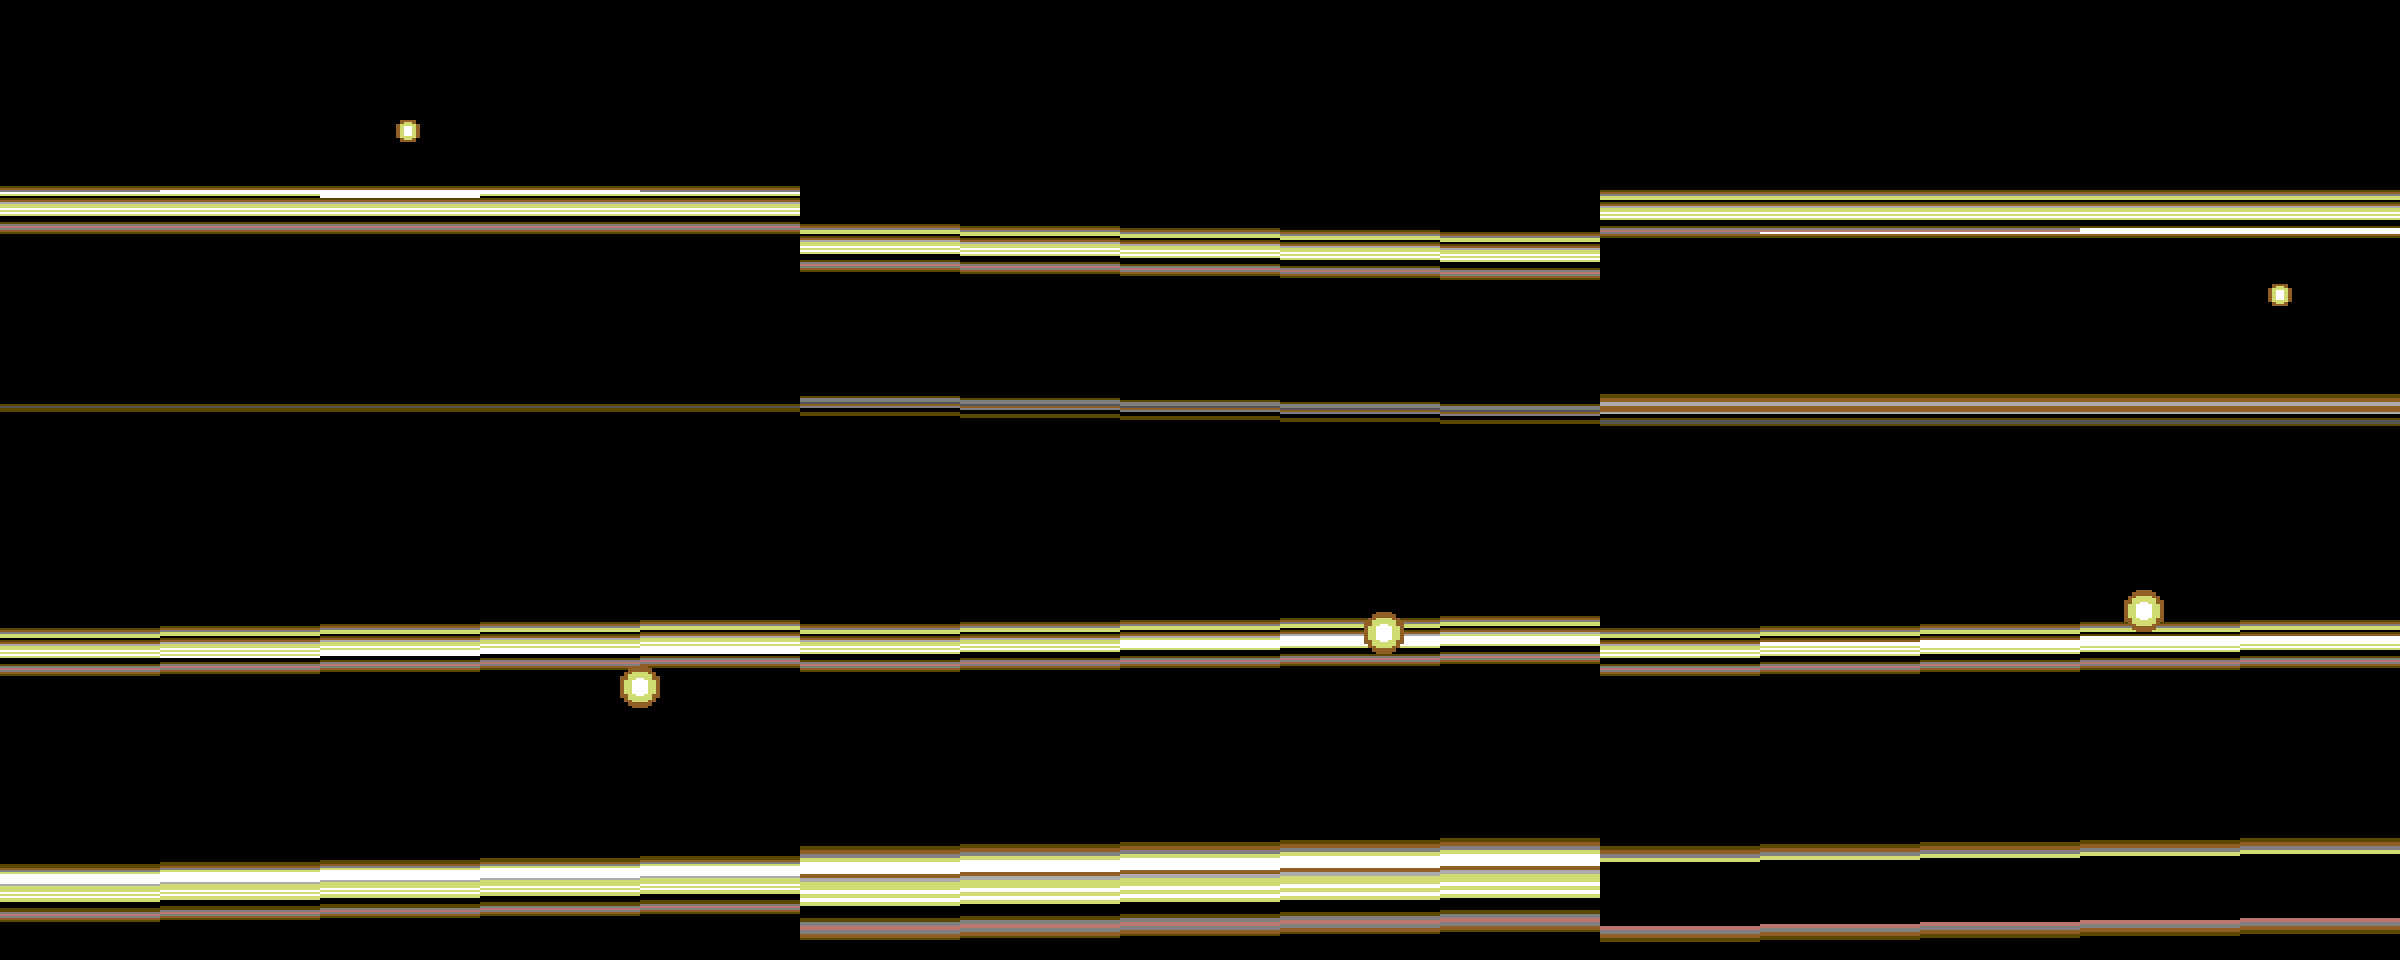
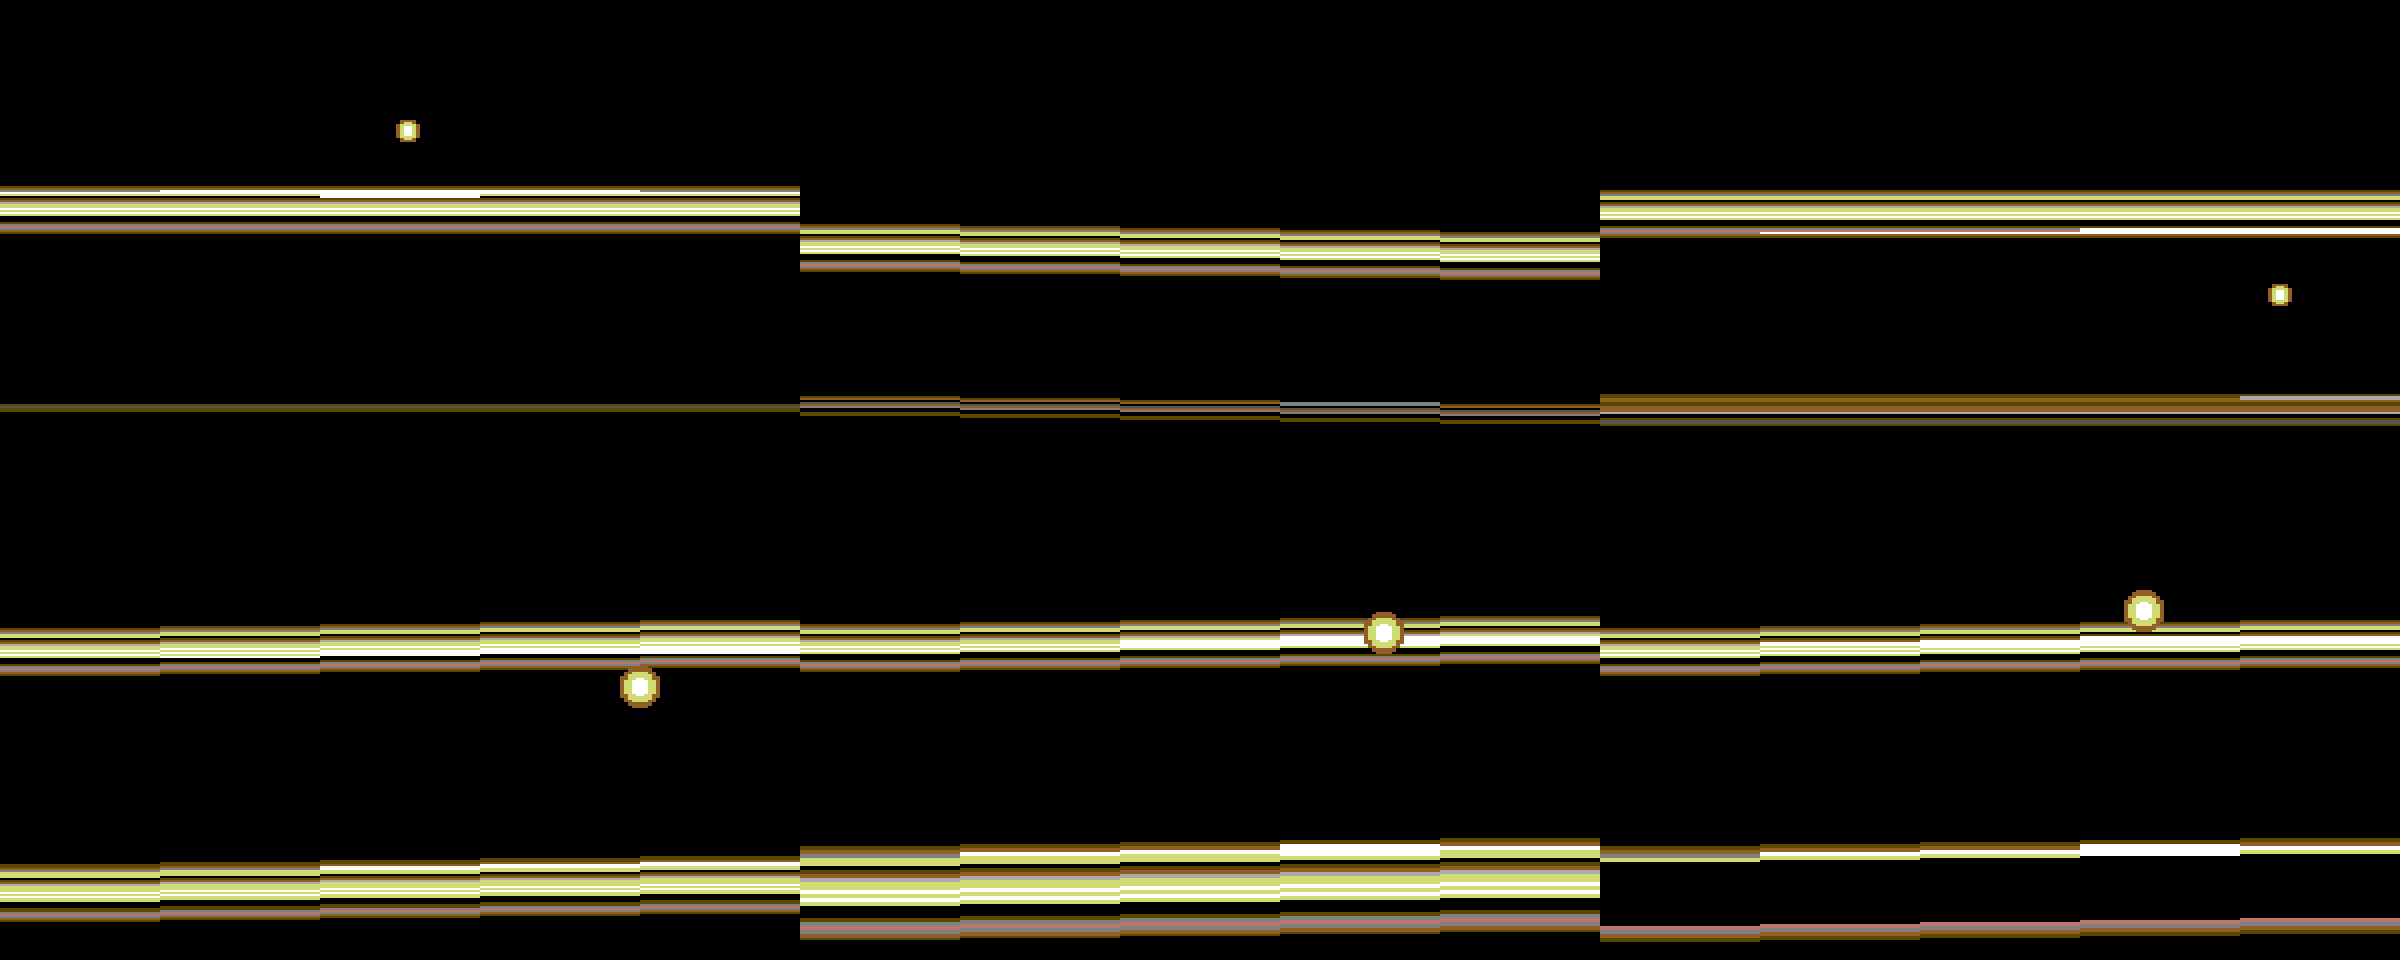
GOLDTWIN: bar B's highlight rides to the top and thickens near the light
Bar B gets a real scene depth, from 90 behind the light's orbit plane to
75 in front of it, so once it is nearer the camera than the light the
highlight moves to the top rows (simulated highlight centre 0.44 -> 0.21
of the bar). The highlight is now laid on per segment with each
segment's distance-from-light threshold, written straight into bar B's
speedcode, so it is thickest in the segment nearest the light.

To make room, the main loop starts the next sprite and bar A right after
bar A is drawn instead of after bar B; the simulator now checks the
deadlines on a line-by-line timeline (worst 18% / 56% / 74%).

Claude-Session: https://claude.ai/code/session_01XRP7YWTXV6rxeodyPouCbG

Changed region(s): [[0.0, 0.875, 0.6875, 0.9375], [0.3438, 0.4062, 1.0, 0.4375], [0.75, 0.875, 1.0, 0.9062]]

diff --git a/c64-raybars/sim_goldtwin.py b/c64-raybars/sim_goldtwin.py
@@ -16,11 +16,11 @@ from PIL import Image
 HERE = os.path.dirname(os.path.abspath(__file__))
 FRAMES = 512
 ROWS, ROWSB, SEGS, SEGSIZE, ROWSIZE = 29, 52, 5, 8, 47
+BMAXROWS = 48
 SEGW, DENLINE, STEAL, BTOP = 80, 44, 4, 229
 TOP, BOTTOM = 50, 290
 OP_BCS, OP_BCC = 0xB0, 0x90
 LINE = 63
-BEND = BTOP + ROWSB + 1         # main loop starts after bar B
 IRQTOP_LINES = 6                # top IRQ: line 44 until DEN is back at 49
 SPRITE_DMA = 21 * 5             # worst case cycles the sprite takes per frame
 
@@ -61,7 +61,11 @@ for r in range(ROWS):
 ok &= all(c == LINE for c in time_rows(blockb, ROWSB))
 print(f"rows: bar A 63 (59 on sprite lines), bar B 63: {'OK' if ok else 'WRONG'}")
 
-# --- 2. the main loop's frame work ------------------------------------------------
+# --- 2. the main loop's frame work, on a timeline ----------------------------------
+# The main loop starts the next sprite + bar A when bar A has been drawn, and
+# the next bar B when bar B has been drawn.  Interrupts take the lines they
+# draw on; the work runs in the remaining time.  Deadlines: the sprite before
+# the top IRQ, bar A before its IRQ, bar B before its IRQ.
 TRAMP = 0xC000
 def call(addr, stop=None):
     mem[TRAMP:TRAMP + 4] = [0x20, addr & 255, addr >> 8, 0x00]
@@ -73,37 +77,83 @@ def call(addr, stop=None):
         mpu.step()
     return mpu.processorCycles - c, mark
 
+def advance(line, cycles, blocked):
+    """Run `cycles` of main-loop work from `line`, skipping blocked lines."""
+    lines = (cycles + 150) / LINE + SPRITE_DMA / LINE
+    while lines > 0:
+        for lo, hi in blocked:
+            if lo <= line < hi:
+                line = hi
+                break
+        step = min(lines, 1)
+        line += step
+        lines -= step
+    return line
+
 call(labels["update"]); call(labels["updateb"])
 frames, worst = [], {"sprite": 0, "A": 0, "B": 0}
 clear = True
+BSTART, BEND = BTOP - 2, BTOP + ROWSB + 1
 for f in range(FRAMES):
+    y_cur = mem[Z["y0"]]
     ca, cball = call(labels["update"], labels["ballready"])
     cb, _ = call(labels["updateb"])
     y = mem[Z["y0"]]
-    # deadlines, counted from the end of bar B (BEND), minus the IRQs in between
-    sprite_budget = ((312 - BEND) + DENLINE) * LINE - 150
-    a_budget = ((312 - BEND) + (y - 2) - IRQTOP_LINES) * LINE - 150 - SPRITE_DMA
-    b_budget = ((312 - BEND) + (BTOP - 2) - IRQTOP_LINES - (ROWS + 3)) * LINE \
-               - 150 - SPRITE_DMA
-    for k, used, bud in (("sprite", cball, sprite_budget), ("A", ca, a_budget),
-                         ("B", ca + cb, b_budget)):
-        worst[k] = max(worst[k], 100 * used / bud)
-        ok &= used <= bud
+    a_end = y_cur + ROWS + 2
+    blocked = [(BSTART, BEND), (312 + DENLINE, 312 + DENLINE + IRQTOP_LINES),
+               (312 + y - 2, 312 + y + ROWS + 2)]
+    t_ball = advance(a_end, cball, blocked)
+    t_a = advance(a_end, ca, blocked)
+    t_b = advance(max(t_a, BEND), cb, blocked)
+    for k, t, start, dl in (("sprite", t_ball, a_end, 312 + DENLINE),
+                            ("A", t_a, a_end, 312 + y - 2),
+                            ("B", t_b, BEND, 312 + BTOP - 2)):
+        worst[k] = max(worst[k], 100 * (t - start) / (dl - start))
+        ok &= t <= dl
     ly = mem[Z["ly"]]
-    clear &= ly + 22 < BTOP - 2     # no sprite DMA on bar B's IRQ lines or rows
+    clear &= ly + 22 < BTOP - 2
     ga = [[mem[block + r * ROWSIZE + k * SEGSIZE + 1] for k in range(SEGS)]
           for r in range(ROWS)]
     gb = [[mem[blockb + r * ROWSIZE + k * SEGSIZE + 1] for k in range(SEGS)]
           for r in range(ROWSB)]
     spr = list(mem[0x8000 + mem[Z["lptr"]] * 64: 0x8000 + mem[Z["lptr"]] * 64 + 63])
-    frames.append((y, ga, gb, ly, mem[Z["lx4"]] * 4, spr, mem[Z["bh"]], ca, cb))
+    dzv = mem[labels["dz"]]
+    kbv = [mem[labels["kb"] + k] for k in range(SEGS)]
+    bcol = labels["bcol"]
+    hl = [(r, k) for r in range(ROWSB) for k in range(SEGS)
+          if gb[r][k] != mem[bcol + r + kbv[k]]]
+    frames.append((y, ga, gb, ly, mem[Z["lx4"]] * 4, spr, mem[Z["bh"]], ca, cb,
+                   dzv - 256 * (dzv > 127), hl))
 ok &= clear
 print(f"main loop: update {min(f[7] for f in frames)}-{max(f[7] for f in frames)}, "
       f"updateb {min(f[8] for f in frames)}-{max(f[8] for f in frames)} cycles")
-print("worst use of each deadline: " +
+print("worst use of each deadline window: " +
       ", ".join(f"{k} {v:.0f}%" for k, v in worst.items()))
 print("sprite never on bar B's lines:", clear)
-print("bar B heights seen:", sorted({f[6] for f in frames}))
+
+# --- 2b. the two highlight fixes, measured -----------------------------------------
+# where bar B's highlight sits (0 = top row, 1 = bottom): rows where the
+# speedcode differs from bar B's plain dimmed column are the highlight.
+front, behind = [], []
+for fr in frames:
+    gb, bh, dzb, hl = fr[2], fr[6], fr[9], fr[10]
+    if bh >= 8 and hl:
+        top = (BMAXROWS - bh) // 2
+        c = sum((r - top) / bh for r, k in hl) / len(hl)
+        (front if dzb > 0 else behind).append(c)
+print(f"bar B highlight centre (0 = top, 1 = bottom): light in front of it "
+      f"{sum(front)/max(1,len(front)):.2f} ({len(front)} frames), "
+      f"bar nearer than the light {sum(behind)/max(1,len(behind)):.2f} ({len(behind)} frames)")
+thick = []
+for fr in frames:
+    gb, bh, lx = fr[2], fr[6], fr[4]
+    if bh >= 30:
+        counts = [sum(1 for r in range(ROWSB) if gb[r][k] == 1) for k in range(SEGS)]
+        if max(counts) >= 2:
+            near = min(range(SEGS), key=lambda k: abs(lx + 12 - (32 + 80 * k)))
+            thick.append((lx, counts, near))
+for lx, counts, near in thick[:: max(1, len(thick) // 5)]:
+    print(f"  light x {lx:3d}: bar B white rows per segment {counts} (nearest segment {near})")
 
 # --- 3. render -------------------------------------------------------------------
 W, H, SCALE = SEGS * SEGW, BOTTOM - TOP, 2

diff --git a/c64-raybars/gen_tables.py b/c64-raybars/gen_tables.py
@@ -284,12 +284,14 @@ for t in range(256):
     bh.append(h)
     bclip.append(c)
     blev.append(0 if h >= 22 else 1 if h >= 16 else 2 if h >= 11 else 3)
-    bzoff.append(int(round(15 * z)))
+    # bar B's scene depth: from 90 behind the light's orbit plane (z=6) to
+    # 75 in front of it (z=1).  Stored negated: dz = light z - bar B z.
+    bzoff.append(-int(round(75 - 33 * (z - 1))))
 # nearest-neighbour step: source rows per screen row, 8.8 fixed point
 step = [0] + [int(24 * 256 / h) for h in range(1, 49)]
 out = ["; Generated by gen_tables.py -- do not edit by hand.", ""]
 for name, data in (("bhtab", bh), ("bcliptab", bclip), ("blevtab", blev),
-                   ("bzofftab", bzoff),
+                   ("bzofftab", [b & 255 for b in bzoff]),
                    ("nnsteplo", [s & 255 for s in step]),
                    ("nnstephi", [s >> 8 for s in step])):
     out.append(f"{name}:")

diff --git a/c64-raybars/README.md b/c64-raybars/README.md
@@ -226,12 +226,22 @@ python3 sim_goldtwin.py      # needs -g -Ln goldtwin.lbl; renders preview_goldtw
 * **Near-clip.** At the camera, rows are cut from the middle outward (the
   nearest part first) over 20 frames, then there's a short black pause.
 * **Shared motion and light.** It tilts with the top bar and reflects the
-  same orbiting light, seen from its own depth.
+  same orbiting light. Its scene depth runs from 90 behind the light's orbit
+  plane to 75 in front of it. Once bar B is nearer the camera than the
+  light, the light shines from behind and above, and the highlight rides up
+  to the very top rows. In the simulator, the highlight's average centre
+  moves from 0.44 of the bar height to 0.21.
+* **Thickest nearest the light.** The plain dimmed gold is expanded once.
+  Then the highlight is laid on per segment, each with its own
+  distance-from-the-light threshold. The expansion records which source
+  line feeds each row, and only lit rows are visited. The white is written
+  straight into bar B's speedcode through a table of row addresses.
 * **Main loop instead of IRQs.** The interrupts only draw: the badline
-  trick at line 44, bar A, and bar B from line 229. The main loop builds
-  the next frame in deadline order: the sprite (before line 44), bar A
-  (before its IRQ), then bar B (before line 227). Worst cases are 36%, 71%
-  and 86% of each deadline.
+  trick at line 44, bar A, and bar B from line 229. The main loop starts
+  the next sprite and bar A as soon as bar A has been drawn (bar B's IRQ
+  cuts in), and the next bar B once bar B has been drawn. Worst cases are
+  18% (sprite, before line 44), 56% (bar A, before its IRQ) and 74% (bar B,
+  before line 227) of each deadline window.
 * **No timing patch for bar B.** The ball never goes below line 226, so it
   never steals cycles inside bar B.
 * **VIC bank 2.** The program outgrew VIC bank 0's free space, so the VIC
